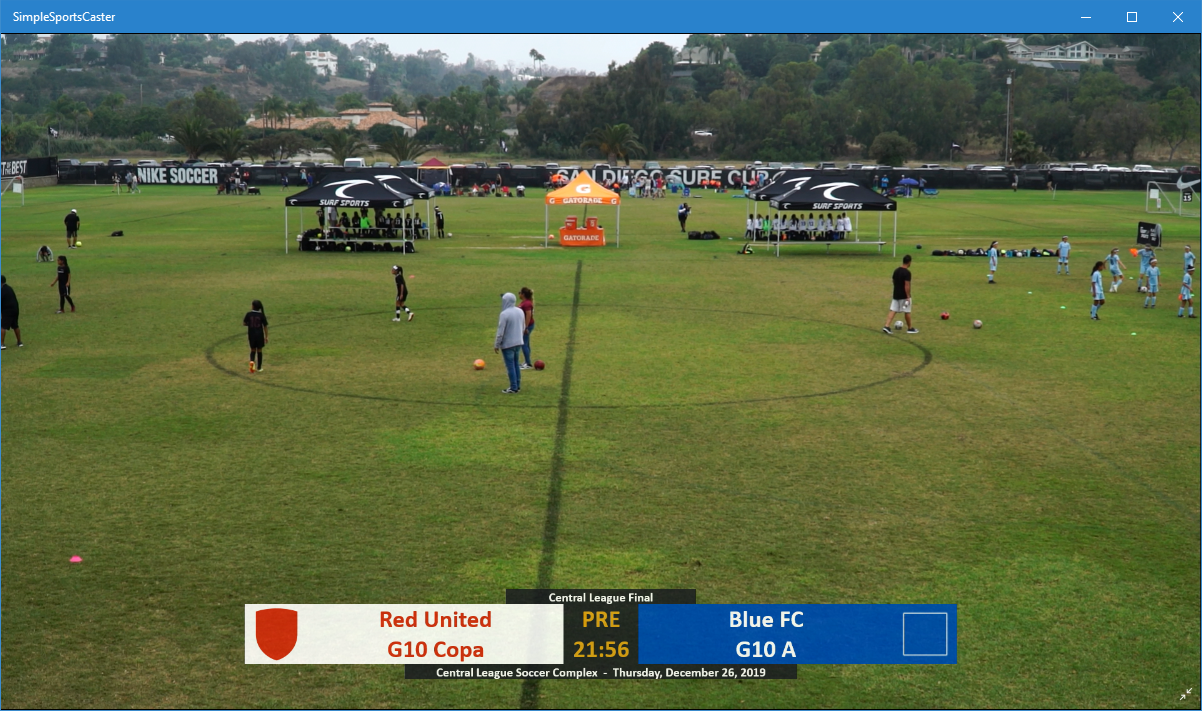
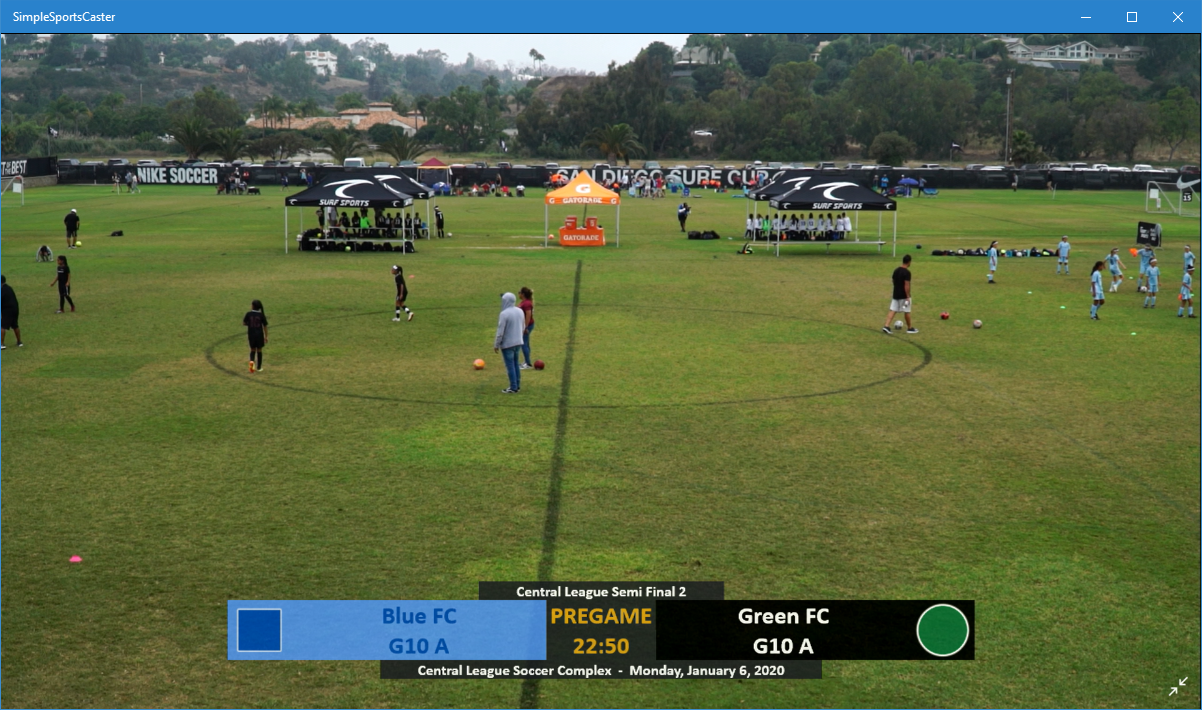
1.1.175.0

Changed region(s): [[0.1847, 0.8056, 0.8311, 0.9606], [0.0, 0.9606, 1.0, 1.0]]

diff --git a/docs/_posts/2020-01-06-version-1.1.175.0.md b/docs/_posts/2020-01-06-version-1.1.175.0.md
@@ -1,14 +1,17 @@
 ---
 layout: post
-title: "Version 1.1.next.0"
+title: "Version 1.1.175.0"
 description: ""
-date: "2020-01-03 00:00:00 -0700"
+date: "2020-01-06 00:00:00 -0700"
 author: AdamZofware
-version: 1.0.6
+version: 1.0.7
 comments: true
 ---
 
-### Version 1.1.next.0 (XX January 2020)
+### Version 1.1.175.0 (6 January 2020)
+This release of SimpleSportsCaster improves keyboard shortcuts, adds a new overlaid video preview mode, supports NCAA college games with a new countdown mode for the game clock, and includes a host of other new features. Read on for more details.
+
+Download it [here](https://www.microsoft.com/store/apps/9NRQMTPGS298?cid=sscdotcom)!
 
 #### Keyboard Shortcuts
 
@@ -68,16 +71,21 @@ You can completely hide the buttons by tapping anywhere on the screen that doesn
 </figure>
 
 #### Game Clock
-This release contains a few changes to the game clock. During pregame, the large scoreboard will show the time remaining until kickoff. In the League settings, there is now an option to use a countdown clock for any league that needs it such as NCAA college games.
+This release contains a few changes to the game clock. In the League settings, there is now an option to use a countdown clock for any league that needs it such as NCAA college games. During pregame, the large scoreboard shows the time remaining until kickoff.
+
+<figure>
+  <img src="{{site.url}}/assets/posts/countdown-clock-1.png" alt="Countdown clock settings"/>
+  <figcaption>Setting up a league with the countdown clock option.</figcaption>
+</figure>
+
+<figure>
+  <img src="{{site.url}}/assets/posts/countdown-clock-2.png" alt="Countdown clock preview"/>
+  <figcaption>Countdown clock in action during the first half of a game.</figcaption>
+</figure>
 
 <figure>
   <img src="{{site.url}}/assets/posts/pregame-countdown.png" alt="Pregame countdown"/>
   <figcaption>Pregame showing countdown until kickoff.</figcaption>
-</figure>
-
-<figure>
-  <img src="{{site.url}}/assets/posts/countdown-clock-1.png" alt="Countdown clock"/>
-  <figcaption>Setting up a league with the countdown clock option.</figcaption>
 </figure>
 
 #### Game Page Improvements

diff --git a/docs/_pages/about.md b/docs/_pages/about.md
@@ -67,6 +67,13 @@ In the future, SimpleSportsCaster will use a subscription model to unlock the fu
 
 ## Version History
 
+### Version 1.1.175.0 (6 January 2020)
+* Improved keyboard shortcuts.
+* New overlaid video preview mode to maximize the size of the preview window in landscape mode.
+* New countdown clock mode for NCAA college games.
+* Pregame now counts down the time until kickoff.
+* Many other new features and improvements. Details [here](/blog/version-1-1-175-0)
+
 ### Version 1.1.164.0 (6 December 2019)
 * Fix a null reference exception that could sometimes happen a few seconds after finishing a recording.
 * Properly set the privacy of automatically created YouTube broadcasts.
